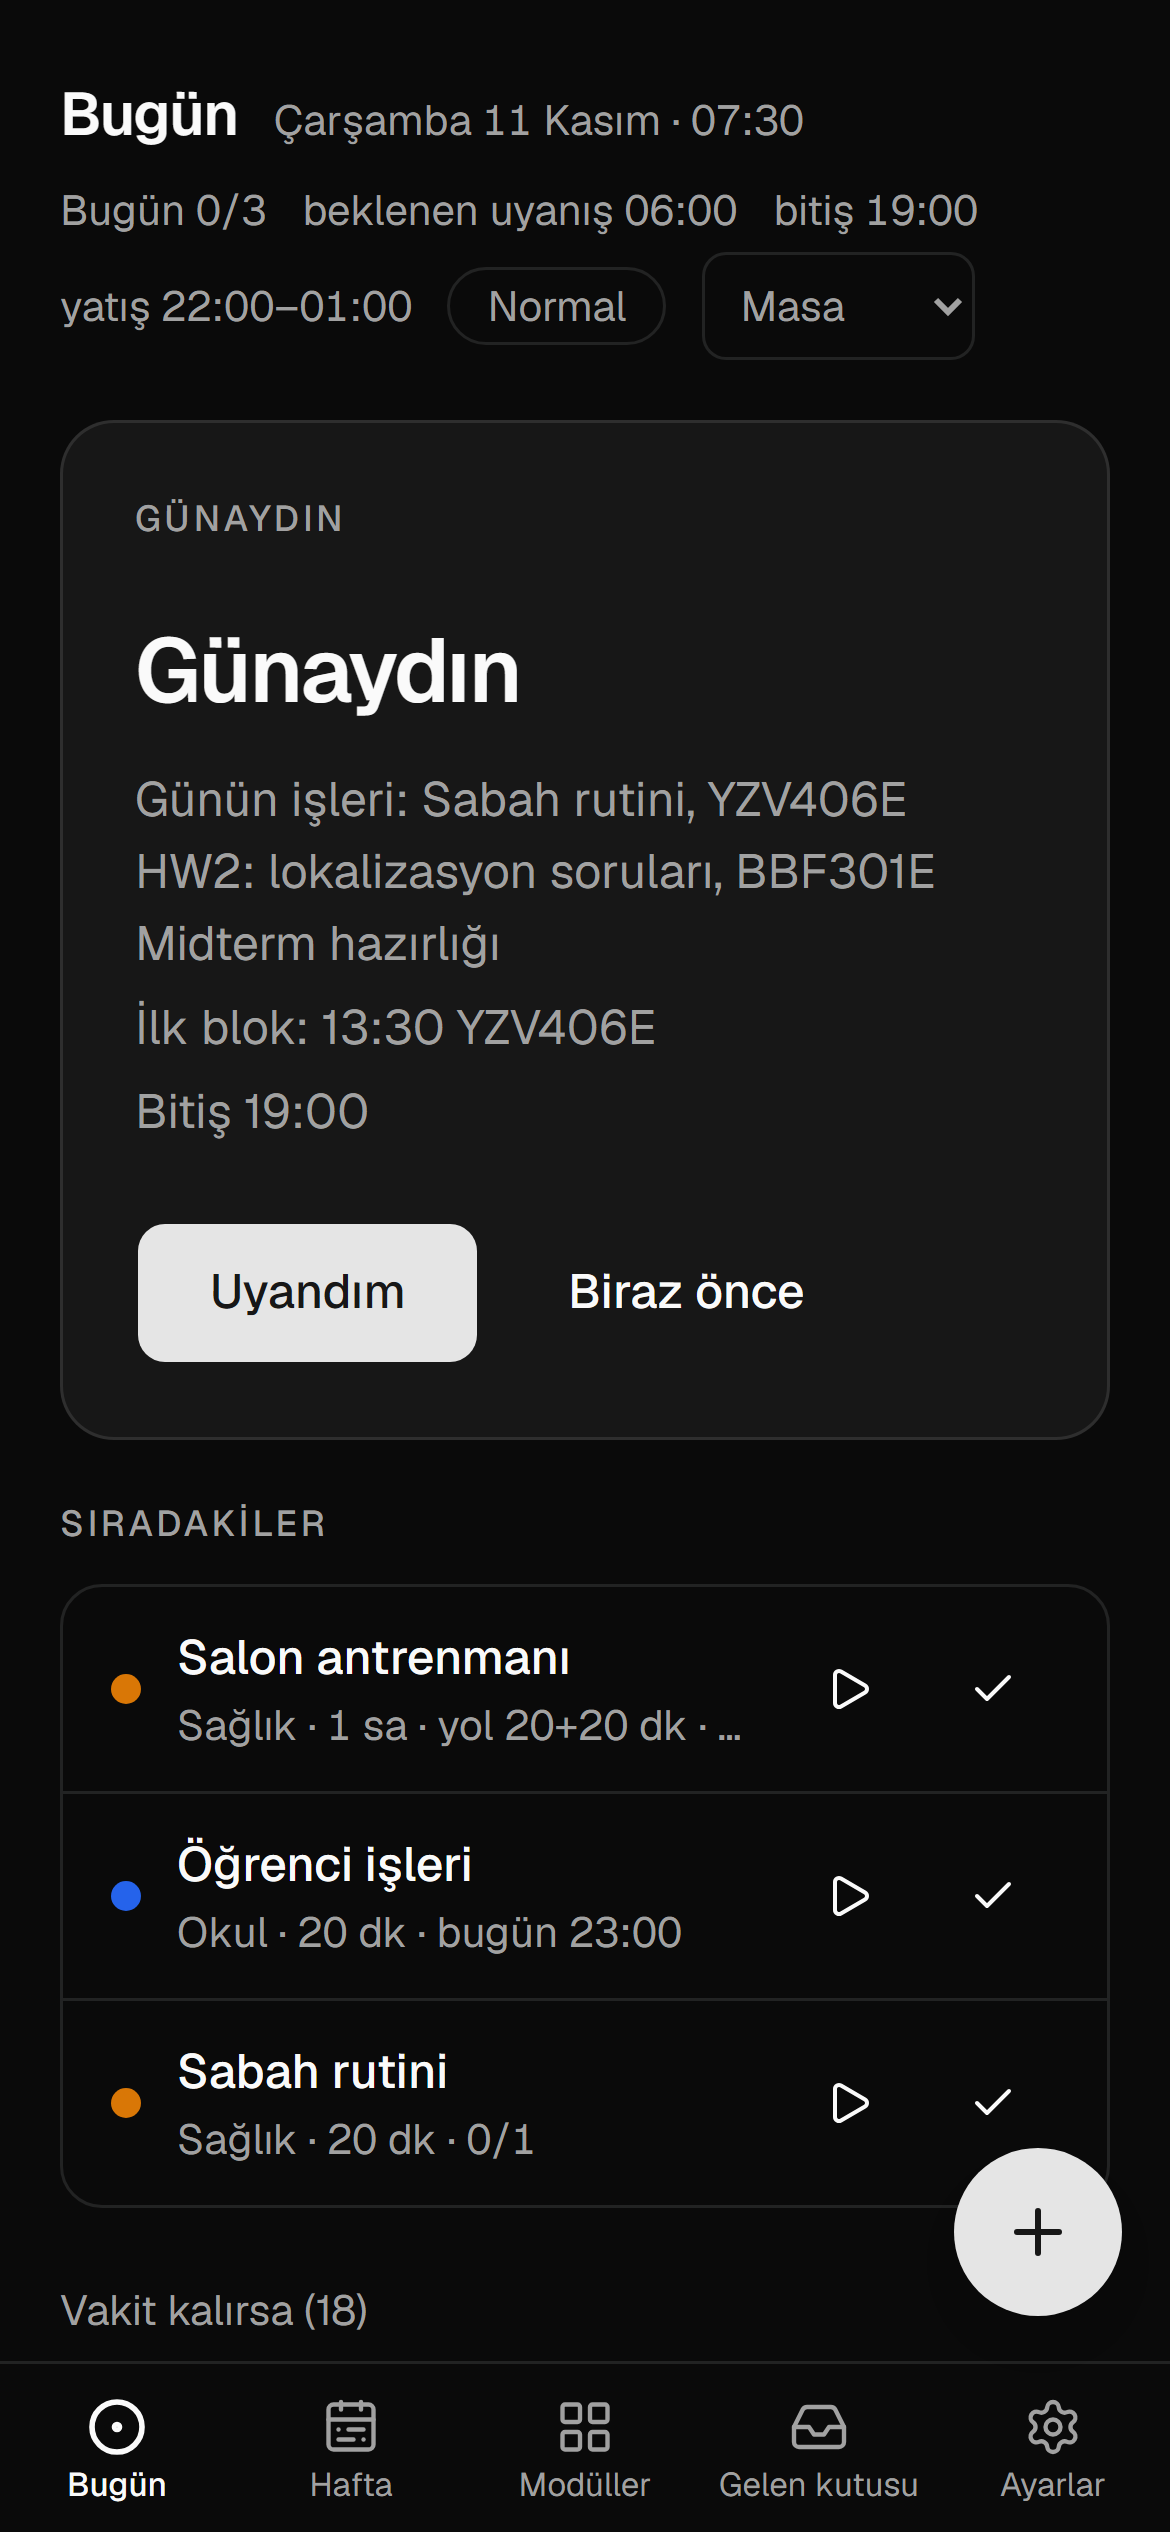
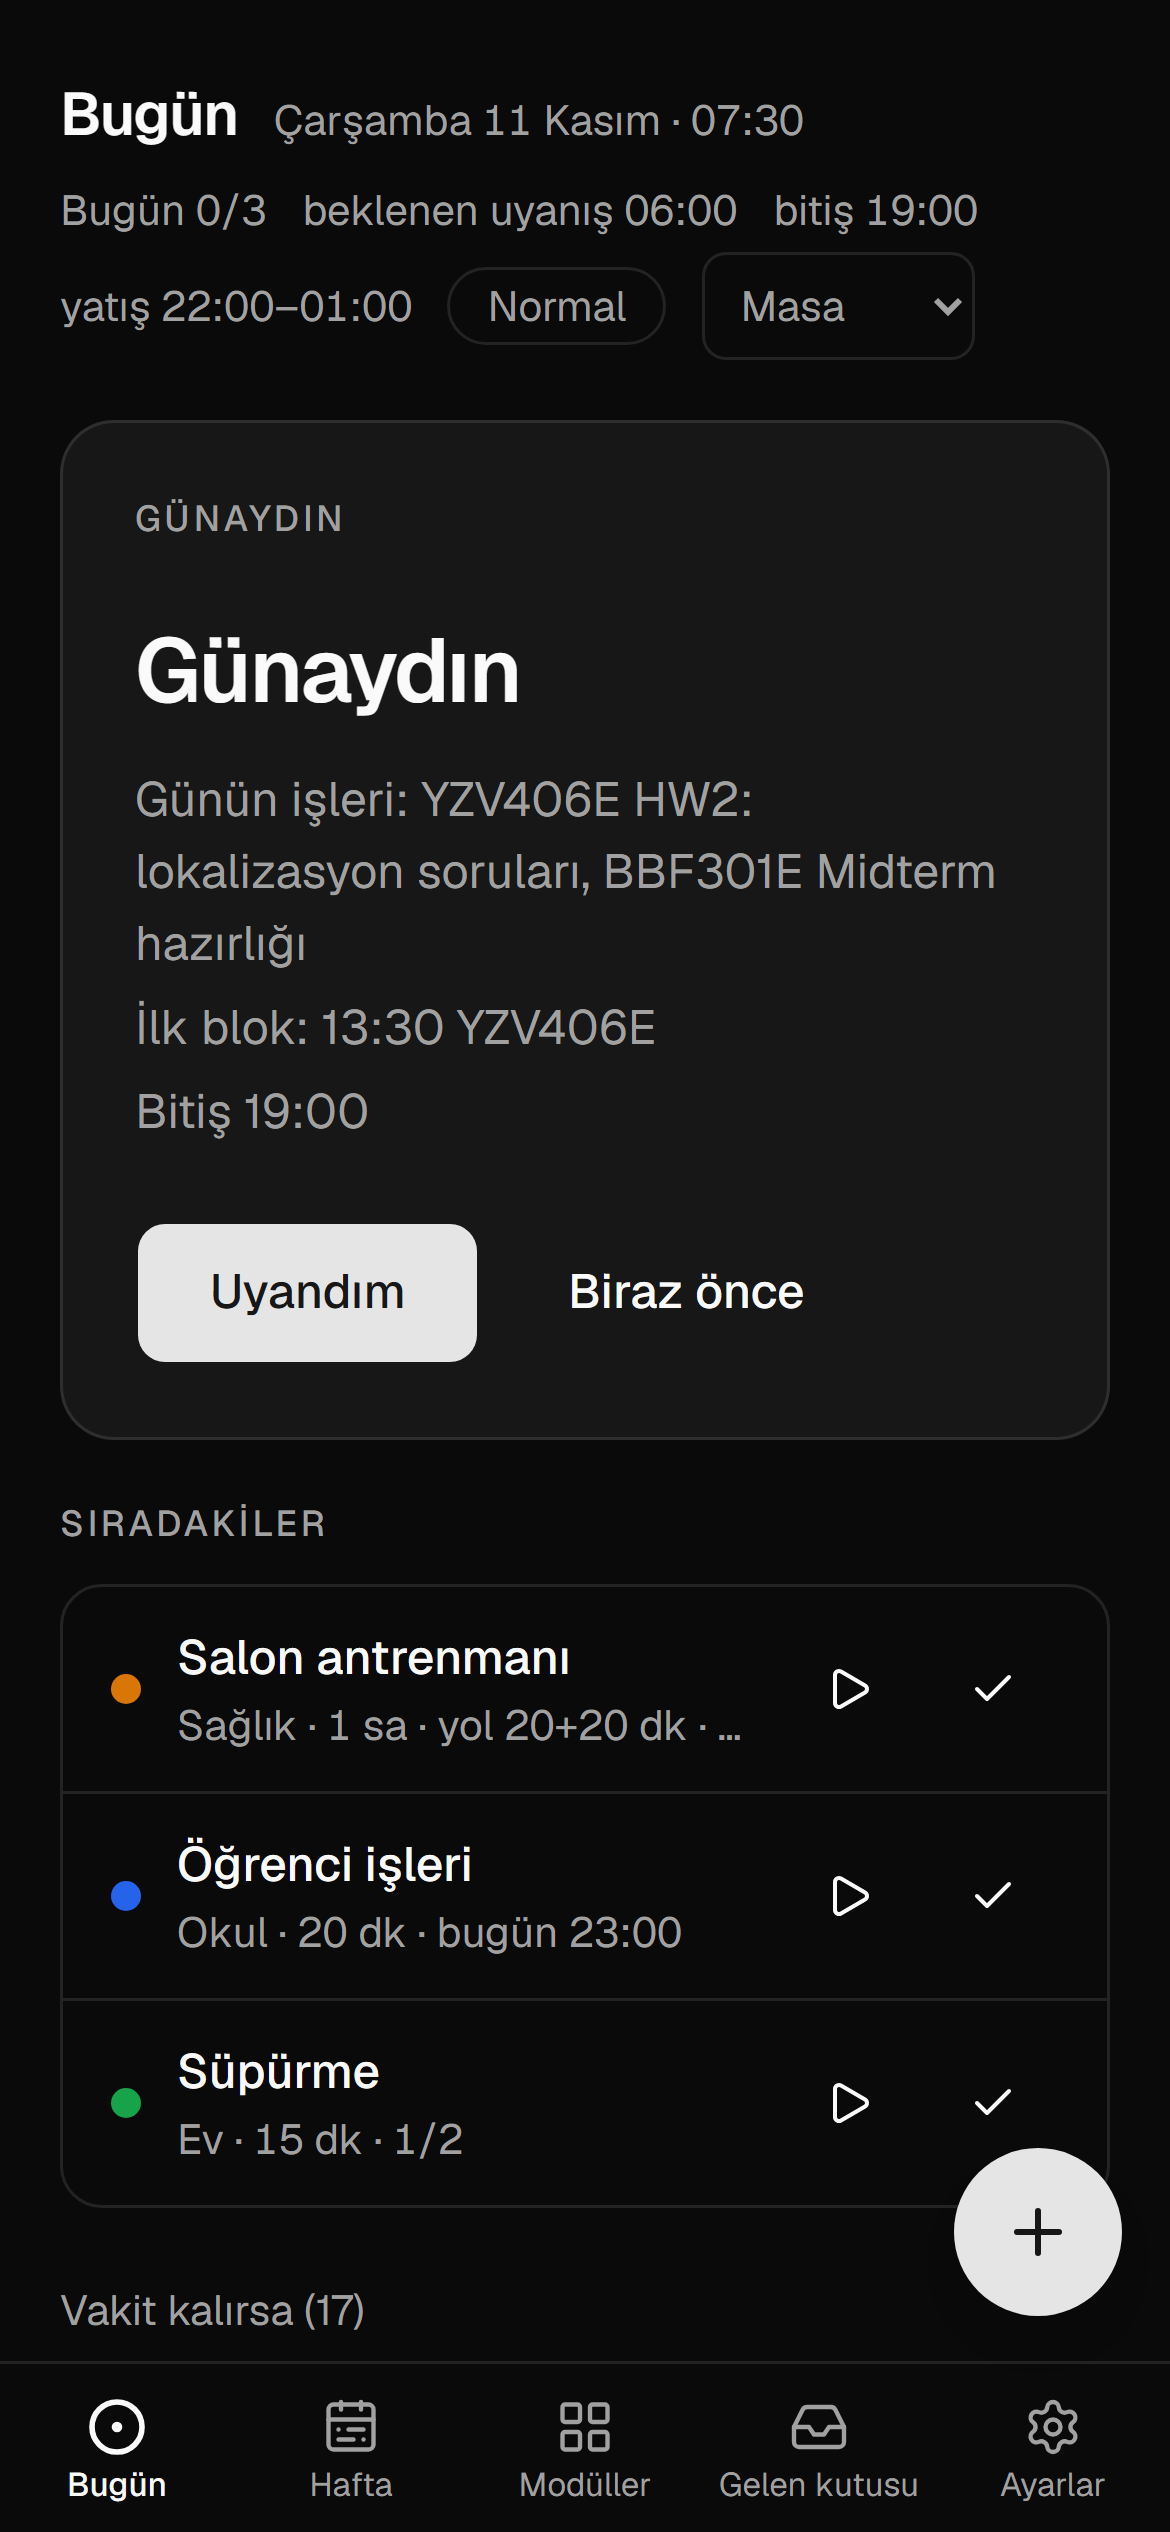
C3c phase audit round 2 fixes: a fixed hour for the overflow test, deneme hears the bedtime, records corrected

diff --git a/tests/e2e/today.both.spec.ts b/tests/e2e/today.both.spec.ts
@@ -7,6 +7,14 @@ import { expect, test } from "./fixtures";
 
 const LONG = "YZV406E HW2: lokalizasyon soruları ve ek okuma listesinin tamamı";
 
+// A fixed hour: yesterday at 10:00 in Istanbul (in the past, so the session never looks
+// expired). With the real clock the test failed after 21:00, when the block two hours on left
+// too little of the test account's day (it ends at 23:59) for three pieces of work.
+const yesterday = new Intl.DateTimeFormat("en-CA", { timeZone: "Europe/Istanbul" }).format(
+  new Date(Date.now() - 86_400_000),
+);
+const NOW = new Date(`${yesterday}T10:00:00+03:00`).getTime();
+
 async function sidewaysOverflow(page: Page): Promise<number> {
   return page.evaluate(
     () => document.documentElement.scrollWidth - document.documentElement.clientWidth,
@@ -23,10 +31,11 @@ test("long titles do not push the Today screen wider than the screen", async ({
   page,
   viewport,
 }) => {
+  await page.clock.setFixedTime(NOW);
   const okul = await seedModule("okul-ornek", "Okul");
   const ev = await seedModule("ev-ornek", "Ev ve hayat idaresinin uzun adı", "#16a34a");
   await insert("tasks", [
-    { module_id: okul.id, title: LONG, due_at: new Date(Date.now() + 3_600_000).toISOString() },
+    { module_id: okul.id, title: LONG, due_at: new Date(NOW + 3_600_000).toISOString() },
     { module_id: okul.id, title: `${LONG} (ikinci bölüm)` },
     { module_id: ev.id, title: "Kısa iş" },
   ]);
@@ -38,8 +47,8 @@ test("long titles do not push the Today screen wider than the screen", async ({
   await insert("blocks", {
     title: "Sinyal işleme laboratuvarı telafi dersi",
     location: "Elektrik-Elektronik Fakültesi, B-104",
-    starts_at: new Date(Date.now() + 2 * 3_600_000).toISOString(),
-    ends_at: new Date(Date.now() + 3 * 3_600_000).toISOString(),
+    starts_at: new Date(NOW + 2 * 3_600_000).toISOString(),
+    ends_at: new Date(NOW + 3 * 3_600_000).toISOString(),
   });
 
   await page.goto("/");

diff --git a/src/modules/deneme/rules.ts b/src/modules/deneme/rules.ts
@@ -28,6 +28,7 @@ type Settings = {
   /** Ç3c: days the module heard begin, and the last of its sessions that ended. */
   days_started?: number;
   last_session?: { result: string; minutes: number };
+  last_bed_day?: string | null;
 };
 
 export function settingsOf(ctx: ModuleContext): Settings {
@@ -181,6 +182,11 @@ export const listeners: Record<string, (event: AppEvent, ctx: ModuleContext) => 
   "core.day_started": async (_event, ctx) => {
     const settings = settingsOf(ctx);
     await ctx.saveSettings({ ...settings, days_started: (settings.days_started ?? 0) + 1 });
+  },
+  // Ç3c: the night's bedtime; the module keeps the last one it heard.
+  "core.day_closed": async (event, ctx) => {
+    const payload = event.payload as { date?: string };
+    await ctx.saveSettings({ ...settingsOf(ctx), last_bed_day: payload.date ?? null });
   },
   // The answer to the question asked in onOutcome.
   "core.prompt_answered": async (event, ctx) => {

diff --git a/tests/db/events.test.ts b/tests/db/events.test.ts
@@ -250,8 +250,14 @@ describe("the deneme module hears the core (Ç3c)", () => {
       wokeAt: "2026-11-18T04:00:00Z",
       estimated: false,
     });
+    await tellDayClosed(told, { date: "2026-11-18", bedAt: "2026-11-18T20:00:00Z" });
     const settings = ok(await db.from("modules").select("settings").eq("id", mod.id).single())
-      .settings as { days_started?: number; last_session?: { result: string } };
+      .settings as {
+      days_started?: number;
+      last_session?: { result: string };
+      last_bed_day?: string;
+    };
+    expect(settings.last_bed_day).toBe("2026-11-18");
     expect(settings.days_started).toBe(1);
     expect(settings.last_session?.result).toBe("stuck");
   });

diff --git a/src/core/voice/device.ts b/src/core/voice/device.ts
@@ -35,7 +35,7 @@ export const deviceVoice: VoiceProvider = {
       if (voice) utterance.voice = voice;
       // Ended, cut off or refused ("not-allowed" without a tap): the queue goes on either way.
       // Some engines never say they are done: the queue goes on after a generous while anyway.
-      const guard = setTimeout(resolve, 5_000 + text.length * 150);
+      const guard = setTimeout(resolve, (5_000 + text.length * 150) / Math.max(0.5, options.rate));
       const done = () => {
         clearTimeout(guard);
         resolve();

diff --git a/src/core/ui/today/frame-text.ts b/src/core/ui/today/frame-text.ts
@@ -72,7 +72,7 @@ const average = (values: number[]) => values.reduce((sum, value) => sum + value,
  * counts as late in the night, not early in the day.
  */
 export function sleepSummary(days: SleepDay[], today: string): string | null {
-  const since = shiftDay(today, -7);
+  const since = shiftDay(today, -6);
   const recent = days.filter((day) => day.date >= since && day.date <= today);
   const wakes = recent.flatMap((day) => (day.woke_at ? [minutesOfDay(new Date(day.woke_at))] : []));
   const beds = recent.flatMap((day) => {

diff --git a/tests/unit/modules.test.ts b/tests/unit/modules.test.ts
@@ -64,7 +64,12 @@ describe("the deneme module", () => {
     expect(deneme.ui.scene?.when).toBeTypeOf("function");
     expect(deneme.ui.scene?.component).toBeTruthy();
     expect(Object.keys(deneme.on ?? {})).toEqual(
-      expect.arrayContaining(["core.session_started", "core.session_ended", "core.day_started"]),
+      expect.arrayContaining([
+        "core.session_started",
+        "core.session_ended",
+        "core.day_started",
+        "core.day_closed",
+      ]),
     );
   });
 

diff --git a/scripts/demo-data.ts b/scripts/demo-data.ts
@@ -221,6 +221,8 @@ export async function seedDemo(db: Db, now: Date): Promise<DemoSummary> {
         when: { recurrence: { count: 1, period: "day", floor: 1 } },
         effort: { session_minutes: 20 },
         fit: { energy: "physical", context: "home" },
+        // Right after waking (Ç3c); without the day's frame the anchor means nothing.
+        timing: { anchor: "wake" },
       },
     ],
     [

diff --git a/docs/05-arayuz.md b/docs/05-arayuz.md
@@ -136,8 +136,8 @@ Geniş ekranda tek sayfa, kaydırma yok:
 
 - **Günaydın** (`morning`): kartta "Günaydın", büyük "Uyandım" düğmesi, yanında "Biraz önce" (15, 30, 60 dk önce; iki dokunuş), altında günün kısa özeti: günün 3 işi, ilk sabit blok, bitiş çizgisi. Ekranın geri kalanı (Sıradakiler, şerit) olağan haliyle durur. "Uyandım"dan sonra kart uyanışa bağlı ilk işi önerir.
 - **Akşam** (`evening`): sakin kart. Üstte "Akşam"; varsa sıradaki akşam ya da yatışa bağlı iş ve Başla; "Bu gece yatış 23:30 · yarın uyanış 07:30 · uyku 8 sa" satırı (uyku hedefin altındaysa nedeniyle: "Yarın 08:30'da Ders; bu gece en çok 7 sa uyku."); "Yatıyorum", "Günü kapat" (kapanış yapılmadıysa); iki küçük düğme: "Bu gece geç yatacağım" ve "Yarın erken kalkacağım" (her biri 30, 60, 90 dk seçer; yalnızca o geceyi ve o sabahı değiştirir). Sıradakiler, uyarılar ve "vakit kalırsa" gösterilmez.
-- **Gece:** büyük saat ve "Yarın uyanış 07:30 · ilk iş: …".
-- **Üst şerit:** "uyanış 07:40" (tahminiyse "~07:40"; kayıt yoksa beklenen, "beklenen 08:00") ve "yatış 22:00–01:00".
+- **Gece:** büyük saat, altında "Yarın uyanış 07:30" ve "Yarın ilk iş: …" (iki satır).
+- **Üst şerit:** "uyanış 07:40" (tahminiyse "~07:40"; kayıt yoksa "beklenen uyanış 08:00") ve "yatış 22:00–01:00".
 - **Zaman çizelgesi** uyanıştan beklenen yatışa uzanır; uyanışa bağlı, çalışma, akşam ve yatışa bağlı bölümler zemin tonuyla ayrılır, bitiş çizgisi ince bir çizgidir.
 - **Akşam kapanışının sonunda** "Onayla"nın yanında "Onayla ve yat" (kapanışı yazar ve yatışı kaydeder).
 - **Hafta:** en üstte tek satır: son 7 günün ortalama uyanışı, yatışı ve uykusu (kayıt olan günlerden; yoksa satır yok). Seri, puan, rozet yok.
